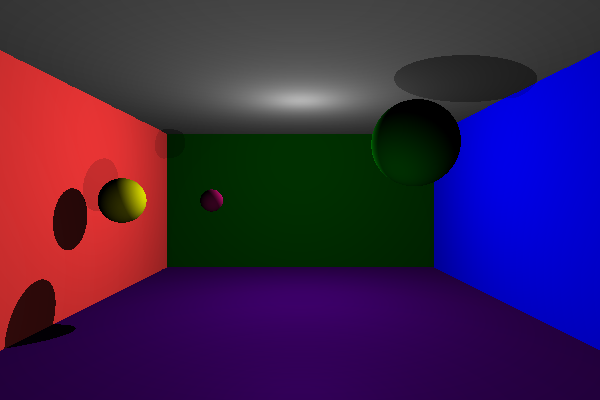
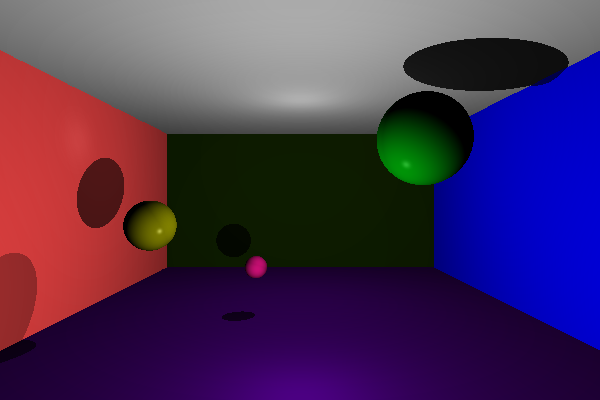
Add Blinn-Phong shading

diff --git a/src/smoke_and_mirrors.cpp b/src/smoke_and_mirrors.cpp
@@ -52,16 +52,16 @@ int main() {
 	Colour backgroundColour = Colour();
 
 	//Planes TODO convert to rectangles/triangle meshes
-	Plane leftRedWall = Plane(Vector3(1, 0, 0), Vector3(-10, 0, 0), { 1.0f, 0.23f, 0.23f });
-	Plane backdarkGreenWall = Plane(Vector3(0, 0, 1), Vector3(1, 0, -30), { 0, 0.2f, 0 });
-	Plane rightBlueWall = Plane(Vector3(-1, 0, 0), Vector3(10, 0, 0), { 0, 0, 1 });
-	Plane purpleFloor = Plane(Vector3(0, 1, 0), Vector3(0, -5, 0), { 0.29f, 0.0f, 0.50f });
-	Plane greyCeiling = Plane(Vector3(0, -1, 0), Vector3(0, 5, 0), { 0.78f, 0.78f, 0.78f });
+	Plane leftRedWall = Plane(Vector3(1, 0, 0), Vector3(-10, 0, 0), { 0.8f, 0.23f, 0.23f }, {0.1f, 0.1f, 0.1f});
+	Plane backdarkGreenWall = Plane(Vector3(0, 0, 1), Vector3(1, 0, -30), { 0.05f, 0.1f, 0 }, {0, 0, 0});
+	Plane rightBlueWall = Plane(Vector3(-1, 0, 0), Vector3(10, 0, 0), { 0, 0, 0.8f }, {0, 0, 0});
+	Plane purpleFloor = Plane(Vector3(0, 1, 0), Vector3(0, -5, 0), { 0.29f, 0.0f, 0.50f }, {0, 0, 0});
+	Plane greyCeiling = Plane(Vector3(0, -1, 0), Vector3(0, 5, 0), { 0.78f, 0.78f, 0.78f }, {0, 0, 0});
 
 	//Spheres
-	Sphere yellowSphere = Sphere(1, Vector3(-8, 0, -18), { 1, 1, 0 });
-	Sphere lightGreenSphere = Sphere(1.5, Vector3(4, 2, -14), { 0, 0.94f, 0.04f });
-	Sphere pinkSphere = Sphere(0.5, Vector3(-4, 0, -18), { 1, 0.08f, 0.58f });
+	Sphere yellowSphere = Sphere(1, Vector3(-6, -1, -16), { 0.6f, 0.6f, 0 }, {0.35f, 0.35f, 0.35f});
+	Sphere lightGreenSphere = Sphere(1.5, Vector3(4, 2, -13), { 0, 0.74f, 0.04f }, {0.2f, 0.2f, 0.2f});
+	Sphere pinkSphere = Sphere(0.5, Vector3(-2, -3, -18), { 1, 0.08f, 0.58f }, {0, 0, 0});
 
 
 	Surface* objects[] = { &leftRedWall, &backdarkGreenWall, &rightBlueWall, &purpleFloor, &greyCeiling, &yellowSphere,  &lightGreenSphere, &pinkSphere };
@@ -72,8 +72,8 @@ int main() {
 
 	//Lights
 	DirectionalLight directionalLight = DirectionalLight({1, 1, 1}, Vector3(10, -1, 0));
-	PointLight ceilingLight = PointLight({200, 200, 200}, Vector3(0, 3, -20));
-	PointLight floorLight = PointLight({50, 50, 50}, Vector3(0, -3, -10));
+	PointLight ceilingLight = PointLight({100, 100, 100}, Vector3(0, 3, -20));
+	PointLight floorLight = PointLight({200, 200, 200}, Vector3(0, -3, -10));
 
 
 	PointLight* PointLights[] = { &ceilingLight, &floorLight };

diff --git a/src/shade.cpp b/src/shade.cpp
@@ -1,7 +1,8 @@
 #include "shade.h"
 
 Colour shade(Path path, Ray ray, PointLight** lights, size_t numberOfLights, Surface** objects, size_t numberOfObjects ) {
-	ColourCoefficients surfaceDiffuseReflectance = path.surfaceHit->getCoefficients();
+	ColourCoefficients surfaceDiffuseReflectance = path.surfaceHit->getDiffuseReflectance();
+	ColourCoefficients surfaceSpecularReflectance = path.surfaceHit->getSpecularReflectance();
 	Colour illuminatedColour = Colour(0, 0, 0);
 	for (size_t i = 0; i < numberOfLights; i++) {
 		Vector3 rayOfLightDirection = lights[i]->rayFromPointToLight(path.firstIntersectionPoint);
@@ -12,8 +13,12 @@ Colour shade(Path path, Ray ray, PointLight** lights, size_t numberOfLights, Sur
 		if (!shadowPath.firstIntersection.intersected) {
 			float cameraLightDistance = rayOfLightDirection.length() + path.firstIntersectionPoint.length();
 			Vector3 normal = path.surfaceHit->surfaceNormal(path.firstIntersectionPoint);
-			float lambertianReflectanceCoefficient = std::max(0.0f, dot(path.surfaceHit->surfaceNormal(path.firstIntersectionPoint), normalisedRayOfLightDirection));
-			illuminatedColour = illuminatedColour + ((lights[i]->colour * surfaceDiffuseReflectance) * lambertianReflectanceCoefficient);
+			Vector3 halfPointVector = rayOfLightDirection + (-ray.direction);
+			Vector3 normalisedHalfPointVector = halfPointVector / (halfPointVector.length());
+			float lambertianReflectanceCoefficient = std::max(0.0f, dot(normal, normalisedRayOfLightDirection));
+			float blinnPhongShading = std::pow(std::max(0.0f, dot(normal, normalisedHalfPointVector)),200);
+			illuminatedColour = illuminatedColour + ((lights[i]->colour * surfaceDiffuseReflectance) * lambertianReflectanceCoefficient
+														+ (lights[i]->colour * surfaceSpecularReflectance) * blinnPhongShading);
 		}
 	}
 	return illuminatedColour;

diff --git a/src/math/geometry.h b/src/math/geometry.h
@@ -25,21 +25,25 @@ class Surface {
 public:
 	virtual rayIntersection rayHit(Ray ray) = 0;
 	virtual Vector3 surfaceNormal(Vector3 pointOnSurface) = 0;
-	virtual ColourCoefficients getCoefficients() = 0;
+	virtual ColourCoefficients getDiffuseReflectance() = 0;
+	virtual ColourCoefficients getSpecularReflectance() = 0;
 };
 
 class Plane : public Surface {
 public:
 	Vector3 normal;
 	Vector3 point;
-	ColourCoefficients diffuseReflectionCoefficients; // Could be a different type
+	//Colourwise sum should be smaller than 0
+	ColourCoefficients diffuseReflectionCoefficients;
+	ColourCoefficients specularReflectionCoefficients; // Should only change the colour if it is a metallic surface
 
 	Plane();
-	Plane(Vector3 normal, Vector3 point, ColourCoefficients diffusionCoefficients);
+	Plane(Vector3 normal, Vector3 point, ColourCoefficients diffuseCoefficients, ColourCoefficients specularCoefficients);
 
 	rayIntersection rayHit(Ray ray) override;
 	Vector3 surfaceNormal(Vector3 pointOnSurface) override;
-	ColourCoefficients getCoefficients() override;
+	ColourCoefficients getDiffuseReflectance() override;
+	ColourCoefficients getSpecularReflectance() override;
 };
 
 

diff --git a/src/math/sphere.cpp b/src/math/sphere.cpp
@@ -1,10 +1,15 @@
 #include "sphere.h"
 
 Sphere::Sphere() : radius(1), centre(Vector3()), diffuseReflectionCoefficients({0.5, 0.5, 0.5}) {};
-Sphere::Sphere(float radius, Vector3 centre, ColourCoefficients diffuseCoefficients) : radius(radius), centre(centre), diffuseReflectionCoefficients(diffuseCoefficients) {};
+Sphere::Sphere(float radius, Vector3 centre, ColourCoefficients diffuseCoefficients, ColourCoefficients specularColourCoefficients)
+	: radius(radius), centre(centre), diffuseReflectionCoefficients(diffuseCoefficients), specularReflectionCoefficients{ specularColourCoefficients } {};
 
-ColourCoefficients Sphere::getCoefficients() {
+ColourCoefficients Sphere::getDiffuseReflectance() {
 	return diffuseReflectionCoefficients;
+}
+
+ColourCoefficients Sphere::getSpecularReflectance() {
+	return specularReflectionCoefficients;
 }
 
 rayIntersection Sphere::rayHit(Ray ray) {

diff --git a/src/math/geometry.cpp b/src/math/geometry.cpp
@@ -11,10 +11,15 @@ Vector3 Ray::pointOnRay(float t) {
 }
 
 Plane::Plane() : normal{ Vector3(0, 0, 1) }, point{ Vector3(0, 1, 1) }, diffuseReflectionCoefficients({ 0.5, 0.5, 0.5}) {}
-Plane::Plane(Vector3 normal, Vector3 point, ColourCoefficients colour) : normal{ normal }, point{ point }, diffuseReflectionCoefficients(colour) {}
+Plane::Plane(Vector3 normal, Vector3 point, ColourCoefficients diffuseCoefficients, ColourCoefficients specularCoefficients)
+	: normal{ normal }, point{ point }, diffuseReflectionCoefficients(diffuseCoefficients), specularReflectionCoefficients{specularCoefficients} {}
 
-ColourCoefficients Plane::getCoefficients() {
+ColourCoefficients Plane::getDiffuseReflectance() {
 	return diffuseReflectionCoefficients;
+}
+
+ColourCoefficients Plane::getSpecularReflectance() {
+	return specularReflectionCoefficients;
 }
 
 rayIntersection Plane::rayHit(Ray ray) {

diff --git a/src/math/sphere.h b/src/math/sphere.h
@@ -6,12 +6,14 @@ class Sphere : public Surface {
 public:
 	float radius;
 	Vector3 centre;
-	ColourCoefficients diffuseReflectionCoefficients; // Could be a different type
+	ColourCoefficients diffuseReflectionCoefficients;
+	ColourCoefficients specularReflectionCoefficients;
 
 	Sphere();
-	Sphere(float radius, Vector3 centre, ColourCoefficients diffuseCoefficients);
+	Sphere(float radius, Vector3 centre, ColourCoefficients diffuseCoefficients, ColourCoefficients specularCoefficients);
 
 	rayIntersection rayHit(Ray ray) override;
 	Vector3 surfaceNormal(Vector3 pointOnSurface) override;
-	ColourCoefficients getCoefficients() override;
+	ColourCoefficients getDiffuseReflectance() override;
+	ColourCoefficients getSpecularReflectance() override;
 };

diff --git a/src/math/vector3.cpp b/src/math/vector3.cpp
@@ -38,6 +38,10 @@ Vector3 operator*(Vector3 vector, float c) {
 	return Vector3(c * vector.x, c * vector.y, c * vector.z);
 }
 
+Vector3 operator/(Vector3 vector, float c) {
+	return Vector3(vector.x / c, vector.y / c, vector.z / c);
+}
+
 float dot(Vector3 vector_a, Vector3 vector_b) {
 	return (vector_a.x * vector_b.x + vector_a.y * vector_b.y + vector_a.z * vector_b.z);
 }

diff --git a/src/math/vector3.h b/src/math/vector3.h
@@ -17,6 +17,7 @@ public:
 
 Vector3 operator*(float c, Vector3 vector);
 Vector3 operator*(Vector3 vector, float c);
+Vector3 operator/(Vector3 vector, float c);
 float dot(Vector3 vector_a, Vector3 vector_b);
 Vector3 cross(Vector3 vector_a, Vector3 vector_b);
 Vector3 normalise(Vector3 vector);
